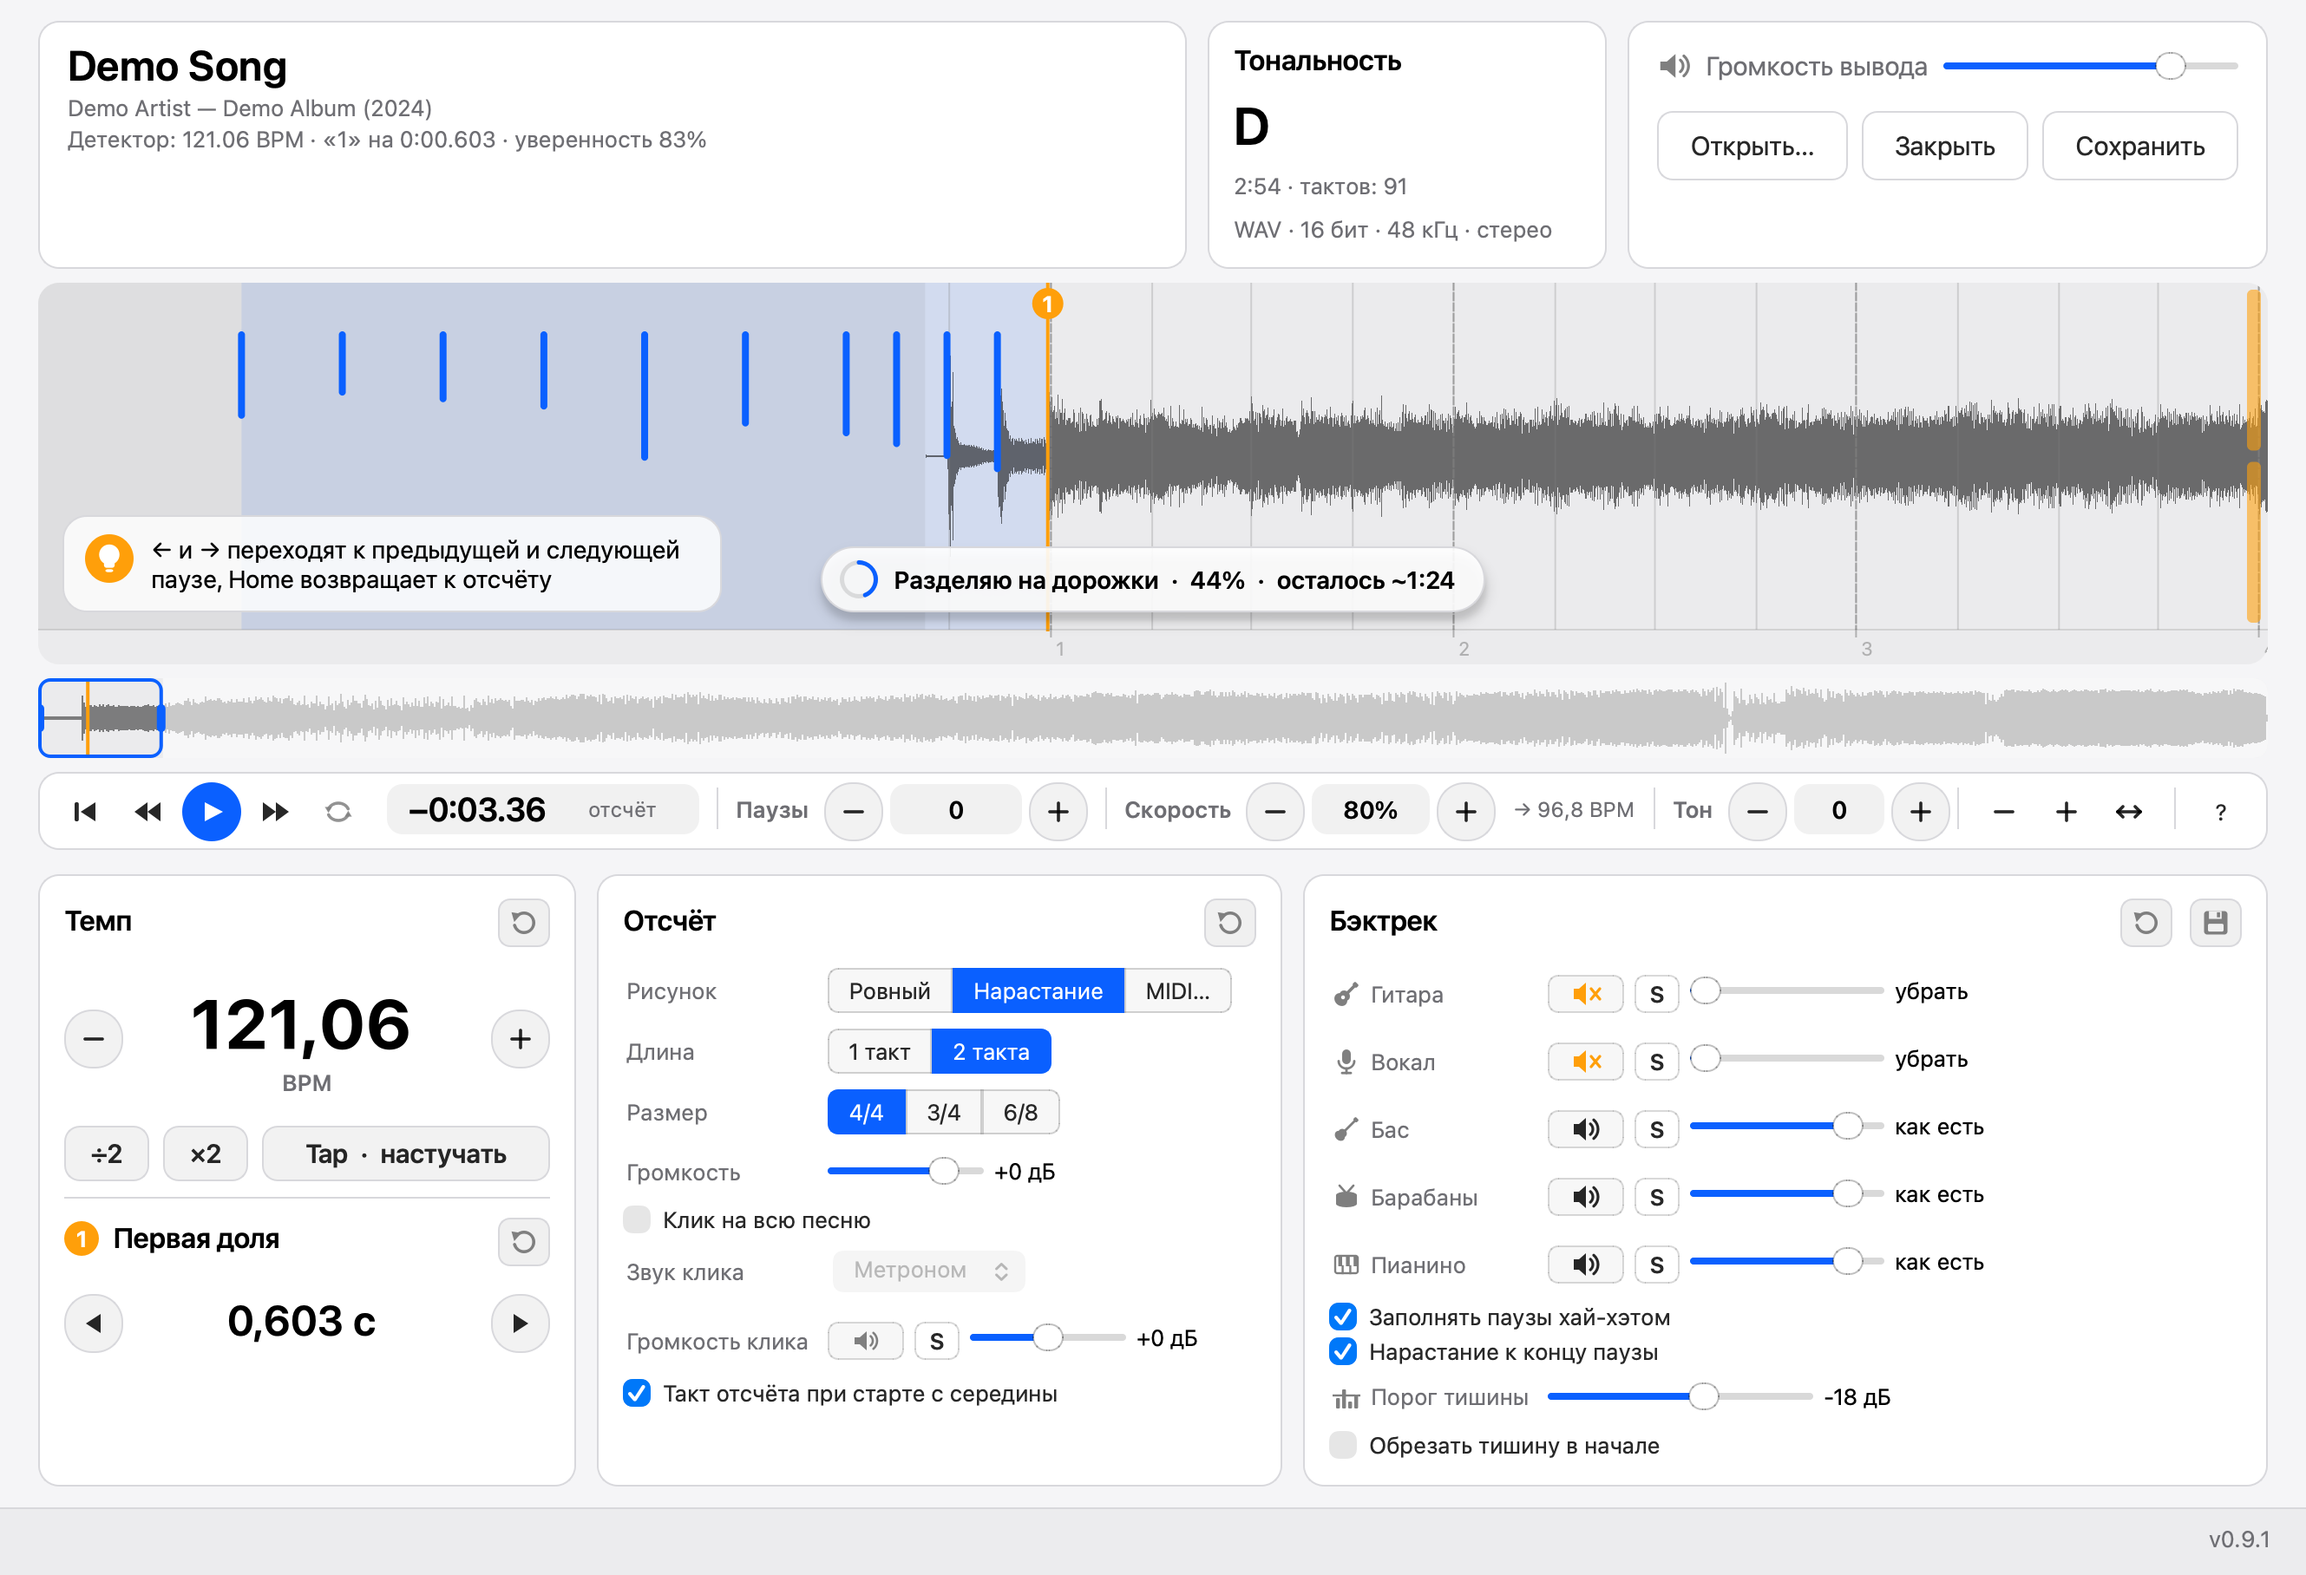
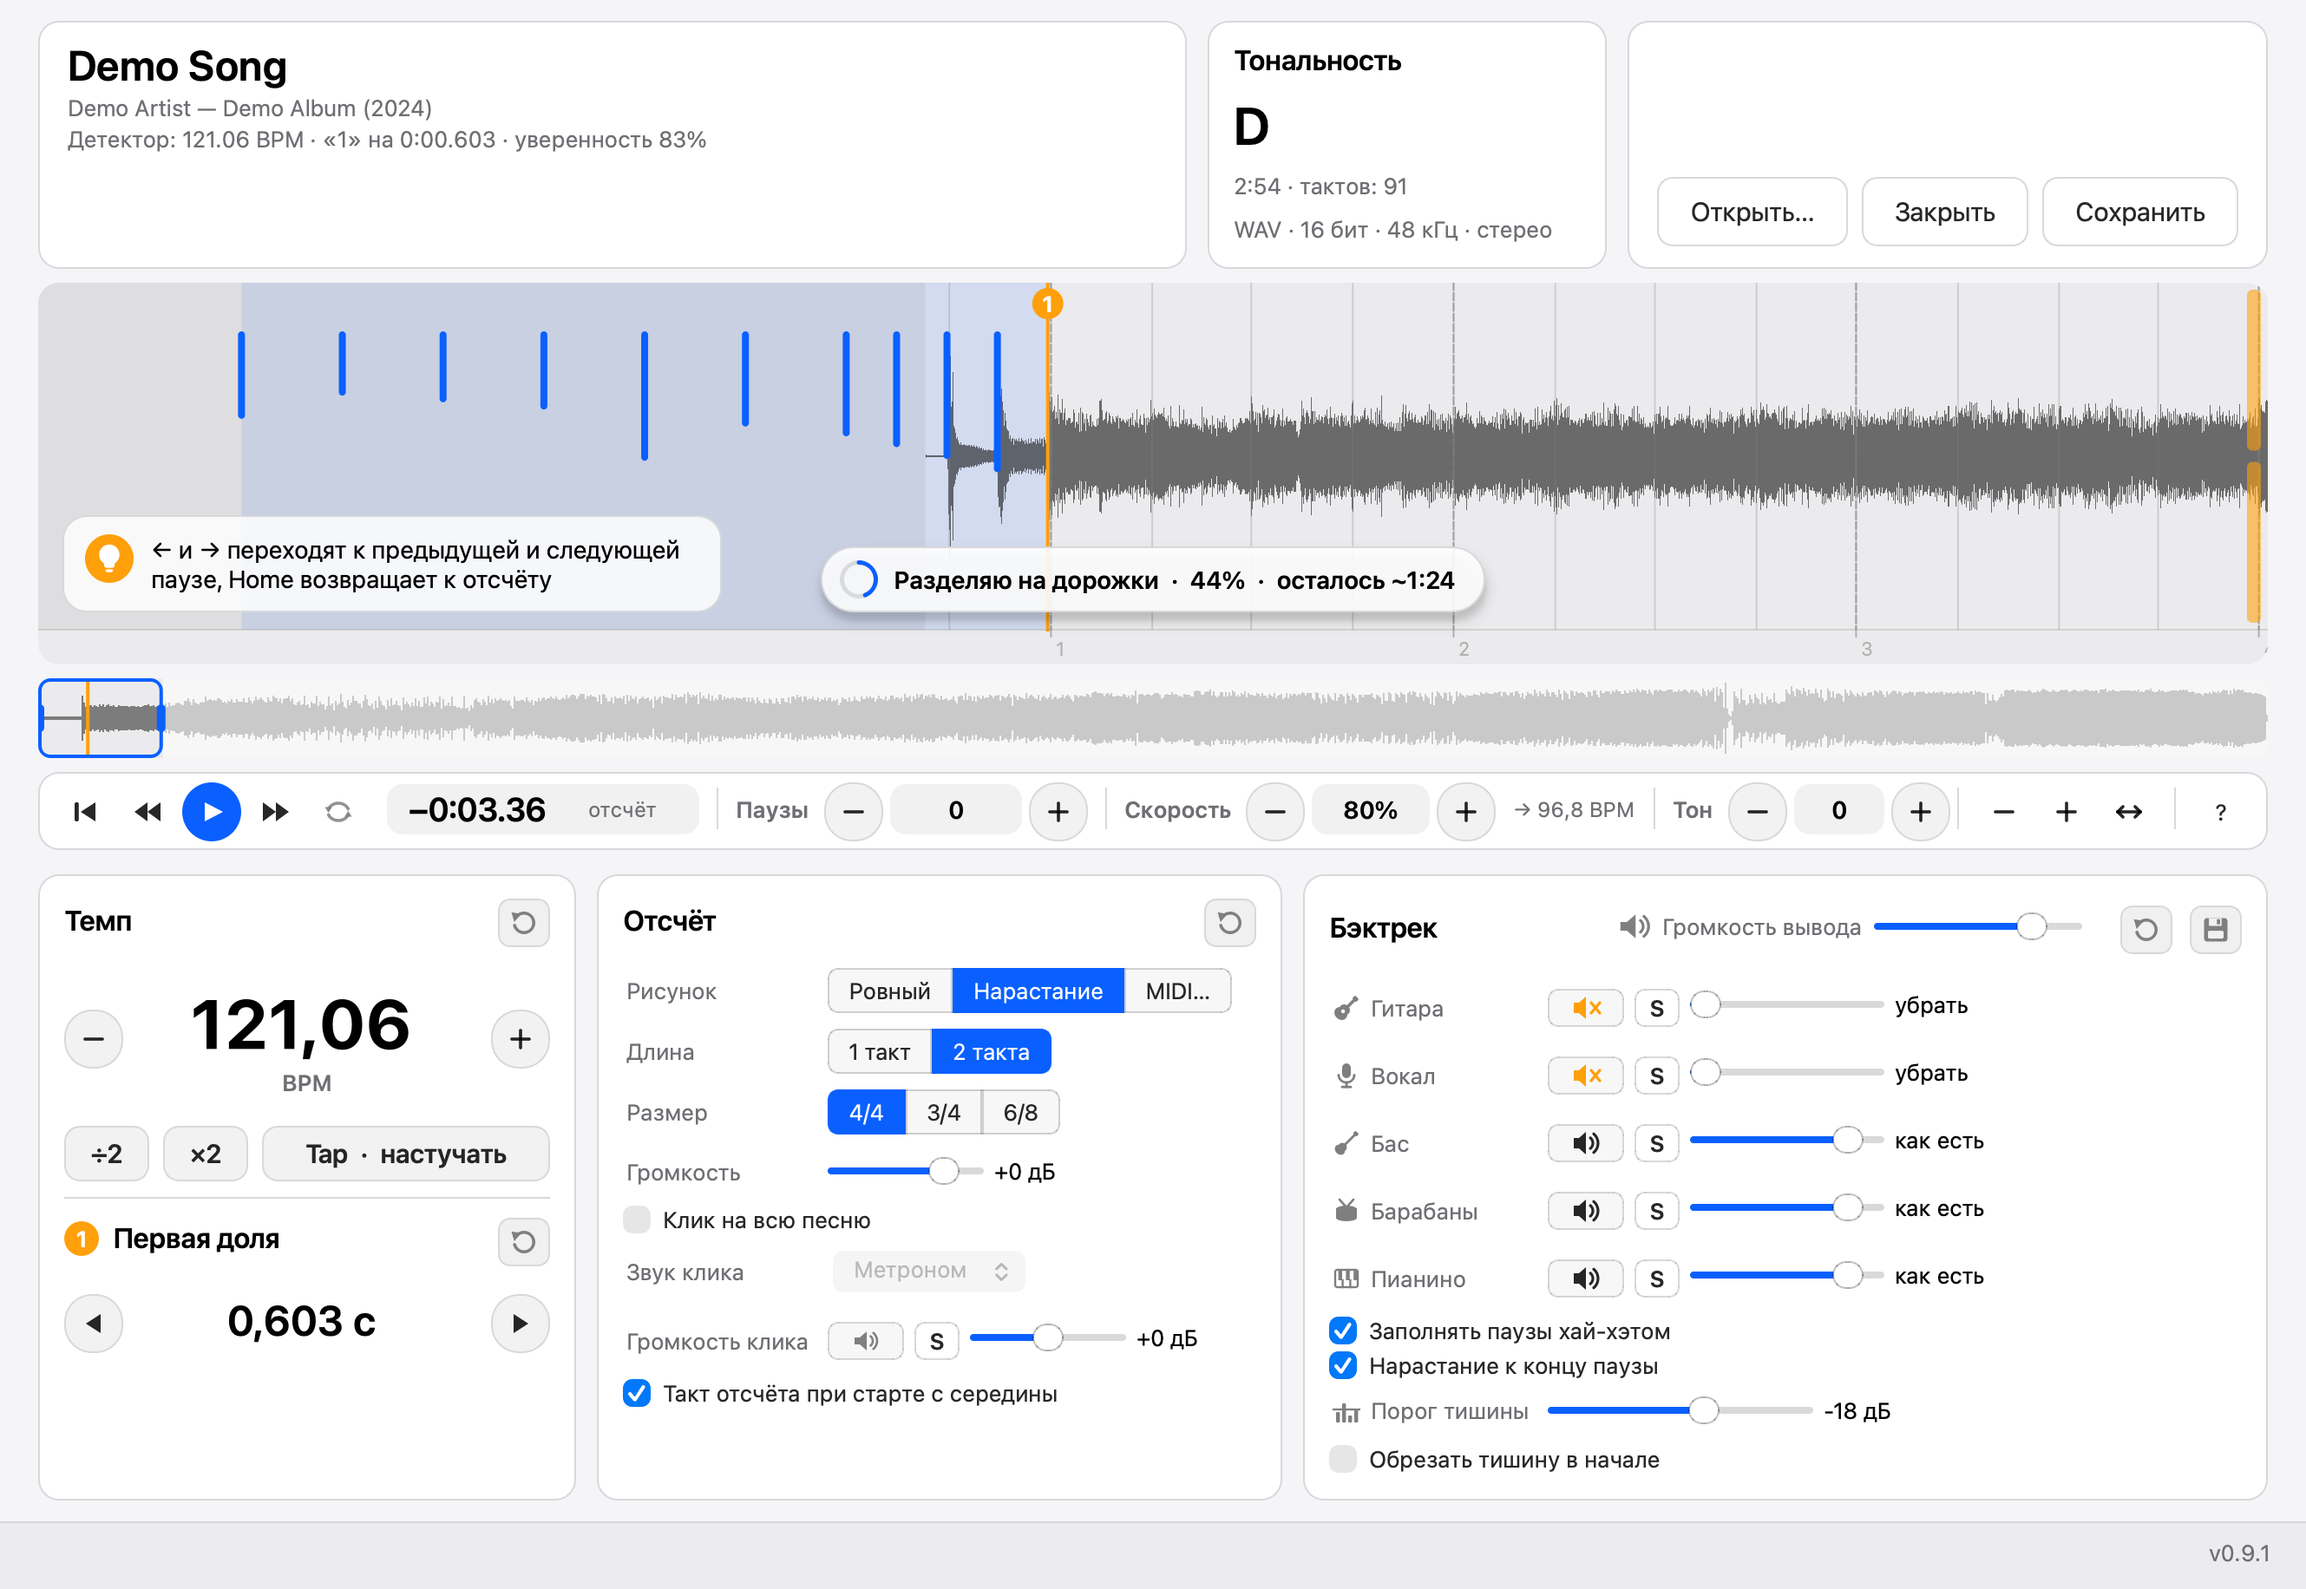
Threshold slider moves only the band while playing; output volume in the backing card title; file buttons on the card's bottom edge

diff --git a/src/countin/gui.py b/src/countin/gui.py
@@ -3075,21 +3075,7 @@ class Window(QMainWindow):
         acts = QFrame(objectName="card")
         av = QVBoxLayout(acts)
         av.setContentsMargins(16, 12, 16, 12)
-        av.setSpacing(12)
-        # Speaker level of the preview; not part of the song or the saved file
-        self.speaker = speaker = QLabel(toolTip=_("Громкость прослушивания"))
-        self.out_volume = QSlider(Qt.Horizontal, minimum=0, maximum=100, minimumWidth=150,
-                                  toolTip=_("Громкость прослушивания"), accessibleName=_("Громкость прослушивания"))
-        self.out_volume.setValue(int(output_volume() * 100))
-        self.out_volume.setFocusPolicy(Qt.TabFocus)
-        self.out_volume.valueChanged.connect(self._output_volume)
-        self._speaker_icon()
-        vol = QHBoxLayout()
-        vol.setSpacing(8)
-        vol.addWidget(speaker, 0, Qt.AlignVCenter)
-        vol.addWidget(QLabel(_("Громкость вывода"), objectName="headerLabel"), 0, Qt.AlignVCenter)
-        vol.addWidget(self.out_volume, 1, Qt.AlignVCenter)
-        av.addLayout(vol)
+        av.addStretch()  # the buttons sit on the bottom edge, in line with the last line of the other cards
         self.open_b = QPushButton(_("Открыть…"), objectName="tool", clicked=self._open_dialog)
         self.save_b = QPushButton(_("Сохранить"), objectName="tool", clicked=self._save,
                                   toolTip=QKeySequence(QKeySequence.Save).toString(QKeySequence.NativeText))
@@ -3101,7 +3087,6 @@ class Window(QMainWindow):
             b.setFocusPolicy(Qt.TabFocus)
             buttons.addWidget(b)
         av.addLayout(buttons)
-        av.addStretch()
         h.addWidget(acts, 0)
         return head
 
@@ -3690,7 +3675,22 @@ class Window(QMainWindow):
 
         save_b = self._icon_button("save", _("Сохранить эти настройки как настройки по умолчанию"), self._save_defaults)
         reset_b = self._icon_button("reset", _("Вернуть настройки по умолчанию"), self._reset_settings)
-        mix, g = card(_("Бэктрек"), reset_b, save_b)
+        # Speaker level of the playback; never part of the saved file. It sits in the backing card's title row.
+        self.speaker = QLabel(toolTip=_("Громкость прослушивания"))
+        self.out_volume = QSlider(Qt.Horizontal, minimum=0, maximum=100, fixedWidth=120,
+                                  toolTip=_("Громкость прослушивания"), accessibleName=_("Громкость прослушивания"))
+        self.out_volume.setValue(int(output_volume() * 100))
+        self.out_volume.setFocusPolicy(Qt.TabFocus)
+        self.out_volume.valueChanged.connect(self._output_volume)
+        self._speaker_icon()
+        vol = QWidget()
+        vh = QHBoxLayout(vol)
+        vh.setContentsMargins(0, 0, 12, 0)
+        vh.setSpacing(6)
+        vh.addWidget(self.speaker, 0, Qt.AlignVCenter)
+        vh.addWidget(QLabel(_("Громкость вывода"), objectName="field"), 0, Qt.AlignVCenter)
+        vh.addWidget(self.out_volume, 0, Qt.AlignVCenter)
+        mix, g = card(_("Бэктрек"), vol, reset_b, save_b)
         self.parts: dict[str, QSlider] = {}
         self.solo_b: dict[str, QPushButton] = {}
         self.part_l: dict[str, QLabel] = {}
@@ -3754,7 +3754,6 @@ class Window(QMainWindow):
         self.threshold_timer.timeout.connect(self._threshold_shown)
         self.threshold.valueChanged.connect(self._threshold_moved)
         self.threshold.sliderReleased.connect(self.threshold_timer.start)
-        self.threshold.valueChanged.connect(self._refresh)
         self.threshold.valueChanged.connect(lambda v: QSettings().setValue(THRESHOLD_KEY, v))
 
         cards = QHBoxLayout()
@@ -4317,7 +4316,9 @@ class Window(QMainWindow):
         if not t or not t.analysis:
             return
         try:
-            self.wave.clicks = clicks_for(t, self.settings())
+            clicks = clicks_for(t, self.settings())
+            if clicks != self.wave.clicks:  # a new list redraws the cached click layer
+                self.wave.clicks = clicks
         except Exception as e:  # unreadable or empty MIDI pattern
             self.wave.clicks = []
             self.status.setText(str(e))
@@ -4331,8 +4332,11 @@ class Window(QMainWindow):
         self._nav_changed()
         self.wave.update()
 
-    def _threshold_moved(self, _v):
+    def _threshold_moved(self, v):
+        # Only the band on the waveform follows the slider; the pauses get searched again once it stops
+        self.wave.threshold_db = float(v)
         self.wave.threshold_full = True
+        self.wave.update()
         self.threshold_timer.start()
 
     def _threshold_shown(self):

diff --git a/AGENTS.md b/AGENTS.md
@@ -82,7 +82,7 @@ Count-In inserts a drum count-in before a song's first downbeat and can turn gui
 - **Help.** "?" under the waveform and Help → Count-In Help (F1, ⌘?) open the user guide on the site in the app's language (`site_url`: `/guide/` or `/ru/guide/`); Help → Project page opens the site's home page the same way. `help.py` holds `TIPS` (the tips card) and `HELP` (the guide's sections, built by `docs/build_site.py`) as Russian strings with English in `i18n.EN`.
 - **Models.** Both models stay loaded for the life of the app (`lru_cache`). The separation model starts loading in the background when the first track opens (`warm_models`), so the first separation does not wait for it; "loading model" shows only when it really loads.
 - **Close.** "Close" (⌘W) goes back to the drop page without quitting; jobs for the closed track get cancelled and their results ignored.
-- **Preview volume and defaults.** The header slider sets `Player.volume` (`playback/volume`), the speaker level only; files never see it. the floppy icon in the backing-track card header (and the File menu); the round-arrow icon next to it restores the saved defaults, or the factory settings when none are saved, stores the count-in, part levels and trim under `defaults/`, and every new window starts from them.
+- **Preview volume and defaults.** The "Output volume" slider in the backing card's title row sets `Player.volume` (`playback/volume`), the speaker level only; files never see it. the floppy icon in the backing-track card header (and the File menu); the round-arrow icon next to it restores the saved defaults, or the factory settings when none are saved, stores the count-in, part levels and trim under `defaults/`, and every new window starts from them.
 - **Preview.** `preview_job` renders the whole song from the count-in with the clicks, and hands the part stems over as `(array, output offset)`, slices of the cache with no copies. `Player` mixes them in the PortAudio callback with the current slider gains (`latency="high"`, 2048-frame blocks), so a seek, a jump to a pause or marker, or a loop wrap only moves `Player.pos` (`Window._jump`). A rebuilt preview (an edit, a level that needs stems, a new speed or key) swaps the buffer of the running stream, so it carries on without a gap. Only while the parts are still being separated for a turned-down level does it render an excerpt (`PREVIEW_AFTER`, `PREVIEW_FROM`). `Player.loop` plays output samples round; `Player.ticks` mixes clicks live, which gives the bar of count-in before a mid-song start (`click/preroll`); `Player.solo` plays only the soloed stems. The progress card shows only for jobs longer than 300 ms. Excerpt stems are cached per track in `stem_cache` as `(first sample, stems)`; a save stores full-track stems there too.
 - **Loop and sections.** A Shift-drag or ruler drag offers "Play in a Loop" or "Make a Hi-Hat Pause". L toggles the loop; the speed trainer (Playback menu) adds 5% every `TRAINER_LAPS` passes. M adds a named section marker at the playhead, keys 1–9 jump to the first nine, right-click on a marker renames or deletes it; markers go into `tempo.mid` as MIDI markers. The ruler counts bars; ⌘G goes to a bar. N and P walk the set list made by opening several files at once; PageDown and PageUp (page-turner pedals) play/stop and play again.
 - **Song memory.** `core/songs.py` keeps what was set for each song under its content hash in the data folder (`songs/<hash>.json`): tempo, the "1", count-in, part levels, speed, key, click, the pauses the user made or edited, removed pauses, loop and markers. `_restore_song` applies it after analysis; changes save 0.8 s after the last edit and on close. Undo (⌘Z, ⇧⌘Z) steps through tempo, the "1", user pauses and markers; edits within 0.6 s make one step.
